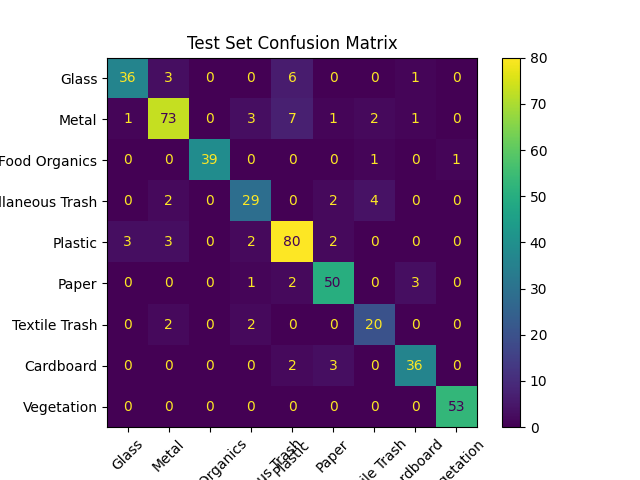
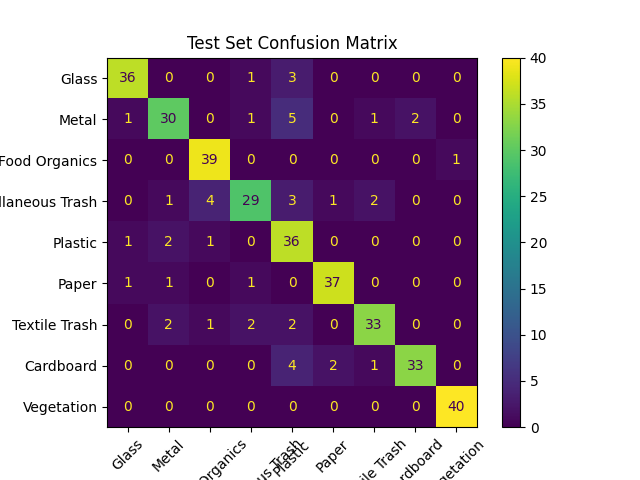
===2025/05/20=== mac

diff --git a/noRetrainOnTorch.py b/noRetrainOnTorch.py
@@ -18,13 +18,13 @@
 # | EfficientNetV2M   | 0.8389                             |
 # | ConvNeXtTiny      | 0.7806                             |
 # | 全訓練-200epoch-----------------------------------------|
-# | MobileNetV2       |                              |
-# | EfficientNetB0    |                              |
-# | EfficientNetB1    |                              |
-# | EfficientNetB7    |                              |
-# | EfficientNetV2S   |                              |
-# | EfficientNetV2M   |                              |
-# | ConvNeXtTiny      |                              |
+# | MobileNetV2       | 0.8167                             |
+# | EfficientNetB0    | 0.8889                             |
+# | EfficientNetB1    | 0.8694                             |
+# | EfficientNetB7    | 0.8500                             |
+# | EfficientNetV2S   | 0.8472                             |
+# | EfficientNetV2M   | 0.8139                             |
+# | ConvNeXtTiny      | 0.7667                             |
 # | 半凍結半訓練-100epoch------------------------------------|
 # | MobileNetV2       |                              |
 # | EfficientNetB0    |                              |
@@ -206,21 +206,21 @@ for m in model_list :
         model_dir = model_dir + "/ConvNeXtTiny"
 
 
-    model_dir = model_dir + "/allFreeze_50epochs"
+    model_dir = model_dir + "/halfFreezeHalfTrain_100epochs"
 
-    """
+    
     #全凍結
     for param in model.features.parameters():
         param.requires_grad = False
-    """
+    
 
     criterion = nn.CrossEntropyLoss()
     optimizer = optim.Adam(model.parameters(), lr=0.001)
     #scheduler = torch.optim.lr_scheduler.StepLR(optimizer, step_size=15, gamma=0.5)
 
     best_val_acc = 0.0
-    initial_epochs = 200
-    freeze_epochs = -1
+    initial_epochs = 100
+    freeze_epochs = 50
 
     train_acc_list = []
     val_acc_list = []
